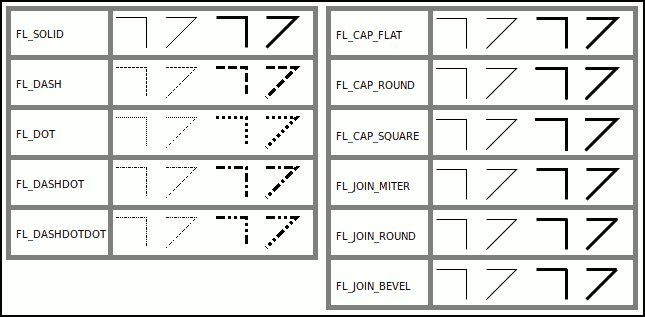
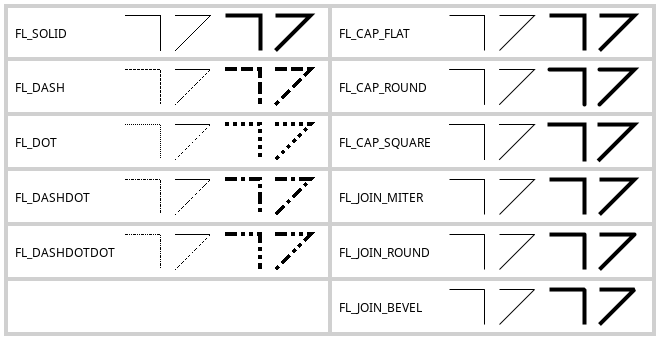
Update docs and screenshot for fl_line_style() (#1016)
As a follow-up to the discussion I used the posted screenshot demo
(thanks to Greg), redesigned it using Fl_Grid, and added it as a
new test program, including Makefiles and CMakeLists.txt.

New file: test/line_style_docs.cxx to create screenshot. Note that the
old test/line_style.cxx is not obsolete, it can be used to test the
line styles interactively.

Docs have been updated in both chapter "Drawing Things" and the
function description.

Also added the new demo to test/demo.menu under "Images for Manual...".

Changed region(s): [[0.0, 0.0, 1.0, 1.0], [0.2791, 0.5678, 0.3101, 0.5962]]

diff --git a/FL/fl_draw.H b/FL/fl_draw.H
@@ -224,7 +224,7 @@ inline void fl_point(int x, int y) {
   using \c fl_line_style(0).
 
   \image html  fl_line_style.png "fl_line_style() styles"
-  \image latex fl_line_style.png "fl_line_style() styles" width=4cm
+  \image latex fl_line_style.png "fl_line_style() styles" width=12cm
 
   \param[in] style A bitmask which is a bitwise-OR of \ref LineStyles "Line Styles",
     a cap style, and a join style. If you don't specify a dash type you
@@ -256,7 +256,7 @@ inline void fl_line_style(int style, int width = 0, char *dashes = 0) {
 /// \anchor LineStyles
 ///
 ///  \image html  fl_line_style.png "fl_line_style() styles"
-///  \image latex fl_line_style.png "fl_line_style() styles" width=4cm
+///  \image latex fl_line_style.png "fl_line_style() styles" width=12cm
 ///
 enum {
   FL_SOLID      = 0,      ///< line style: solid line
